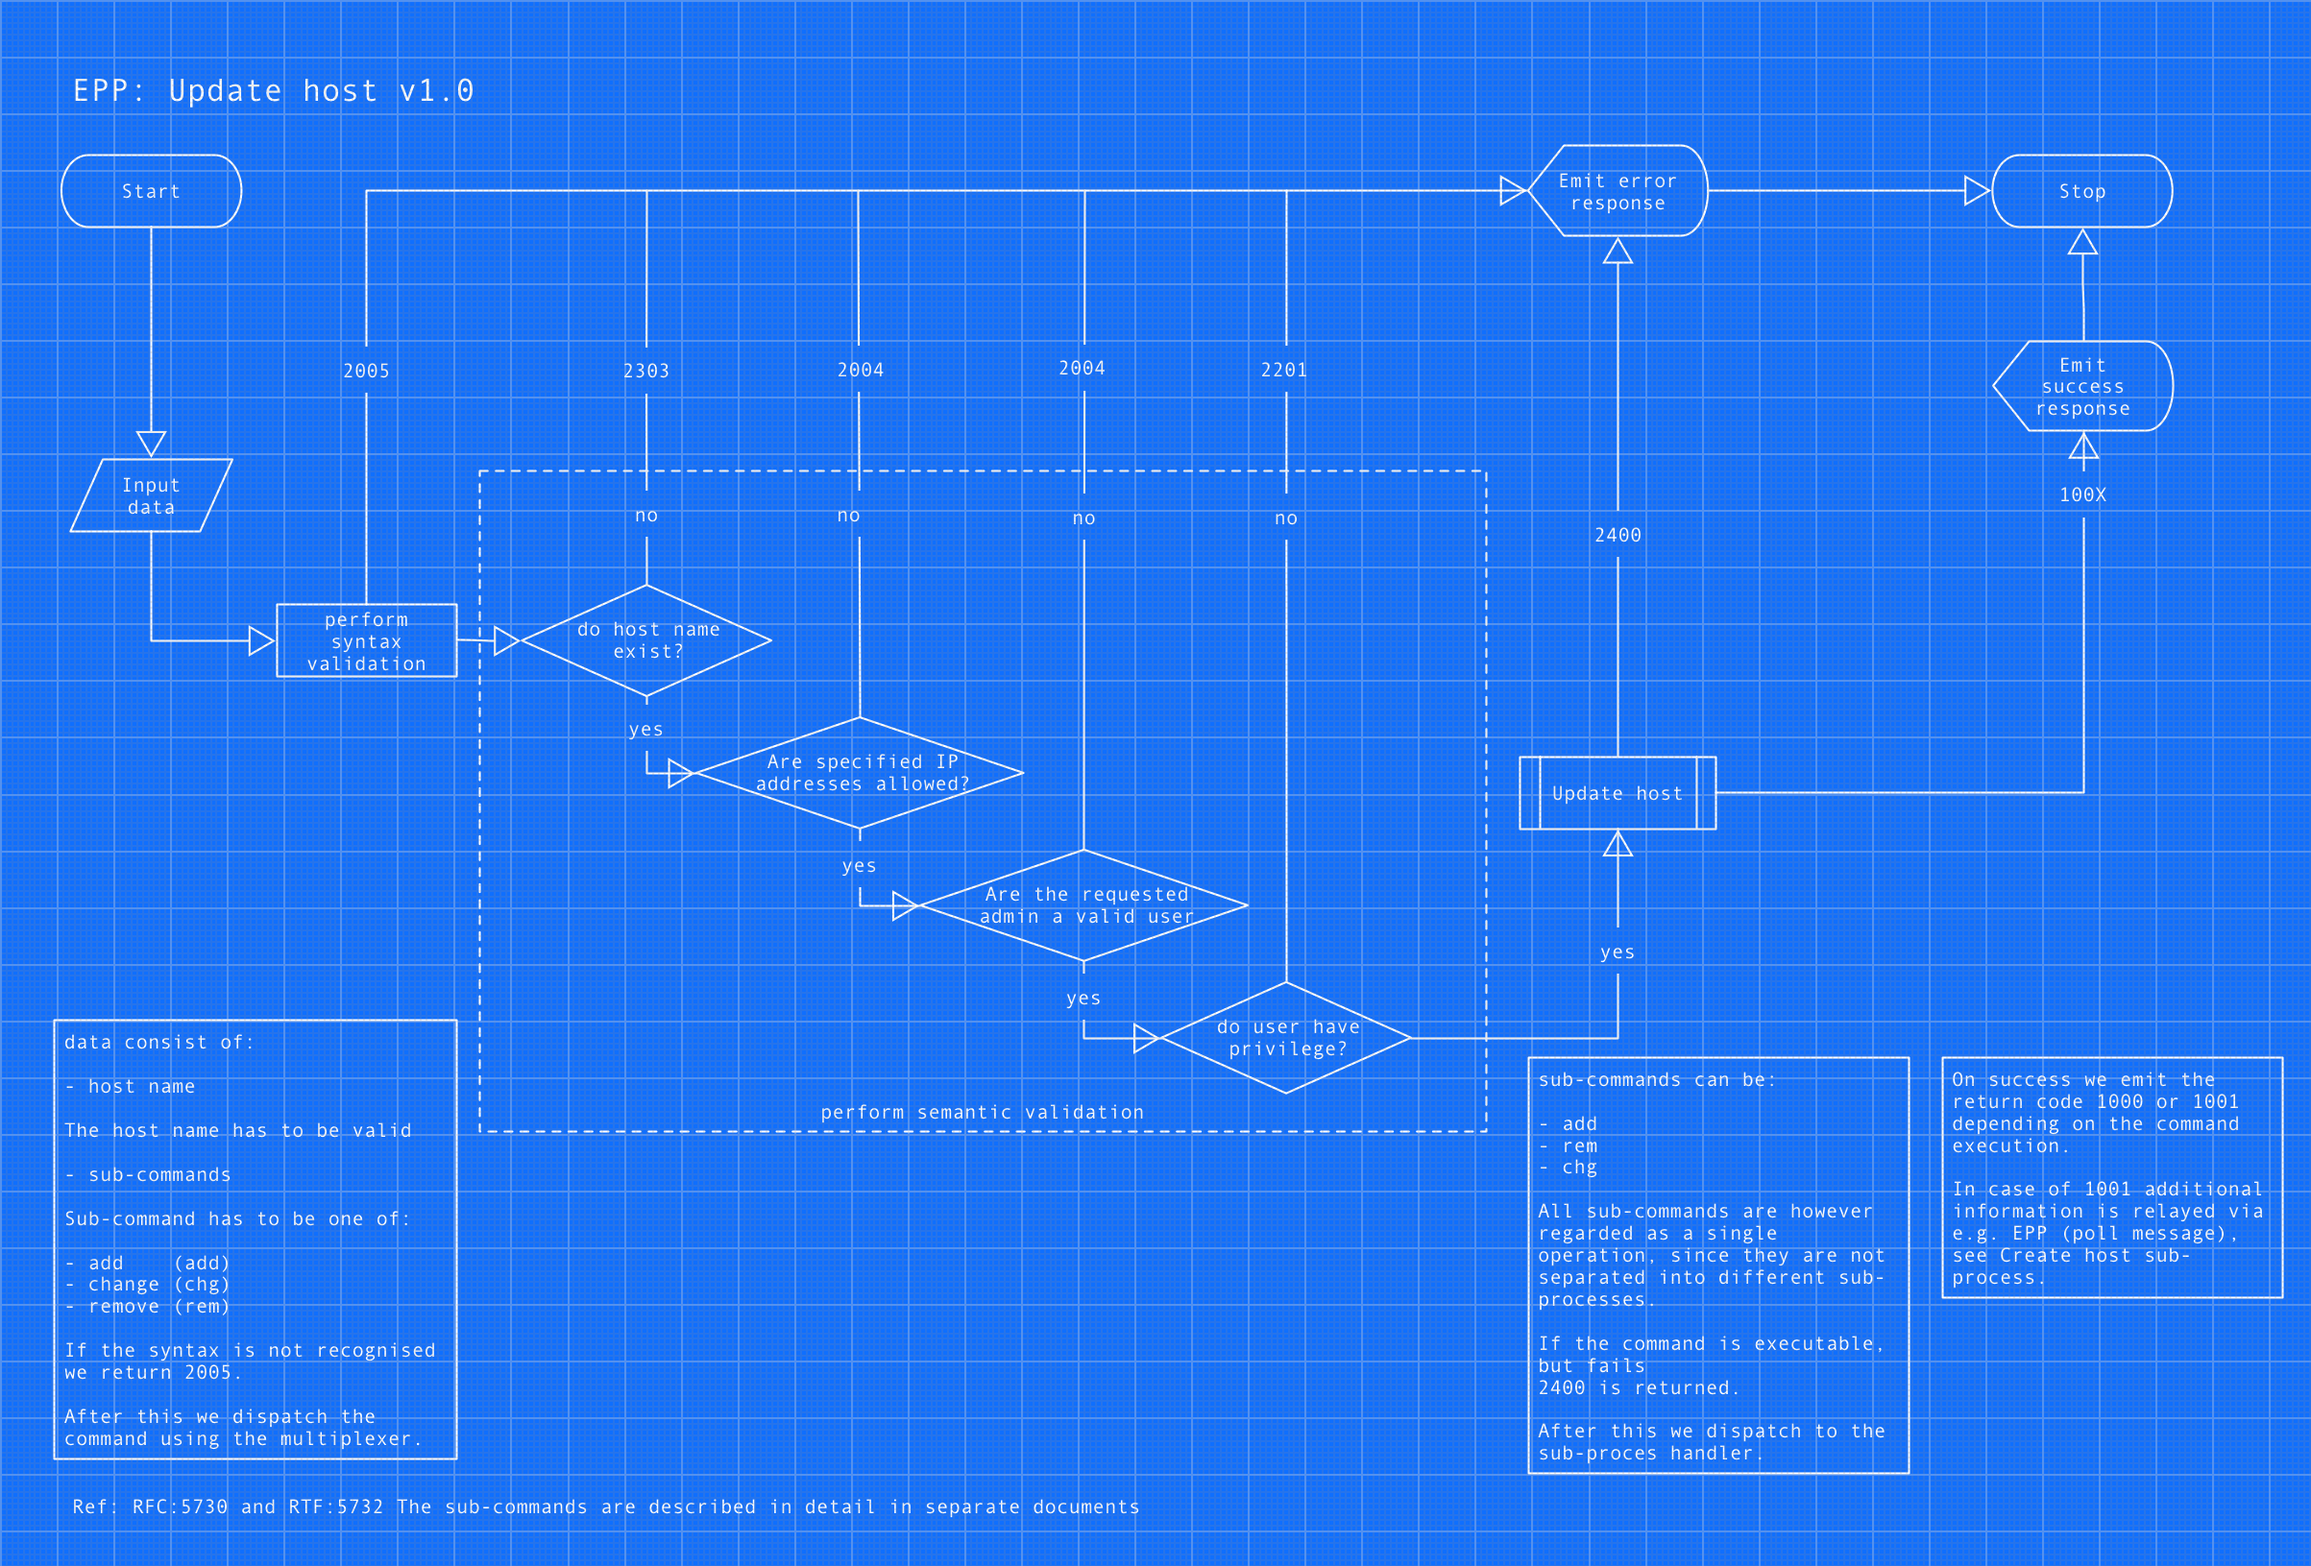
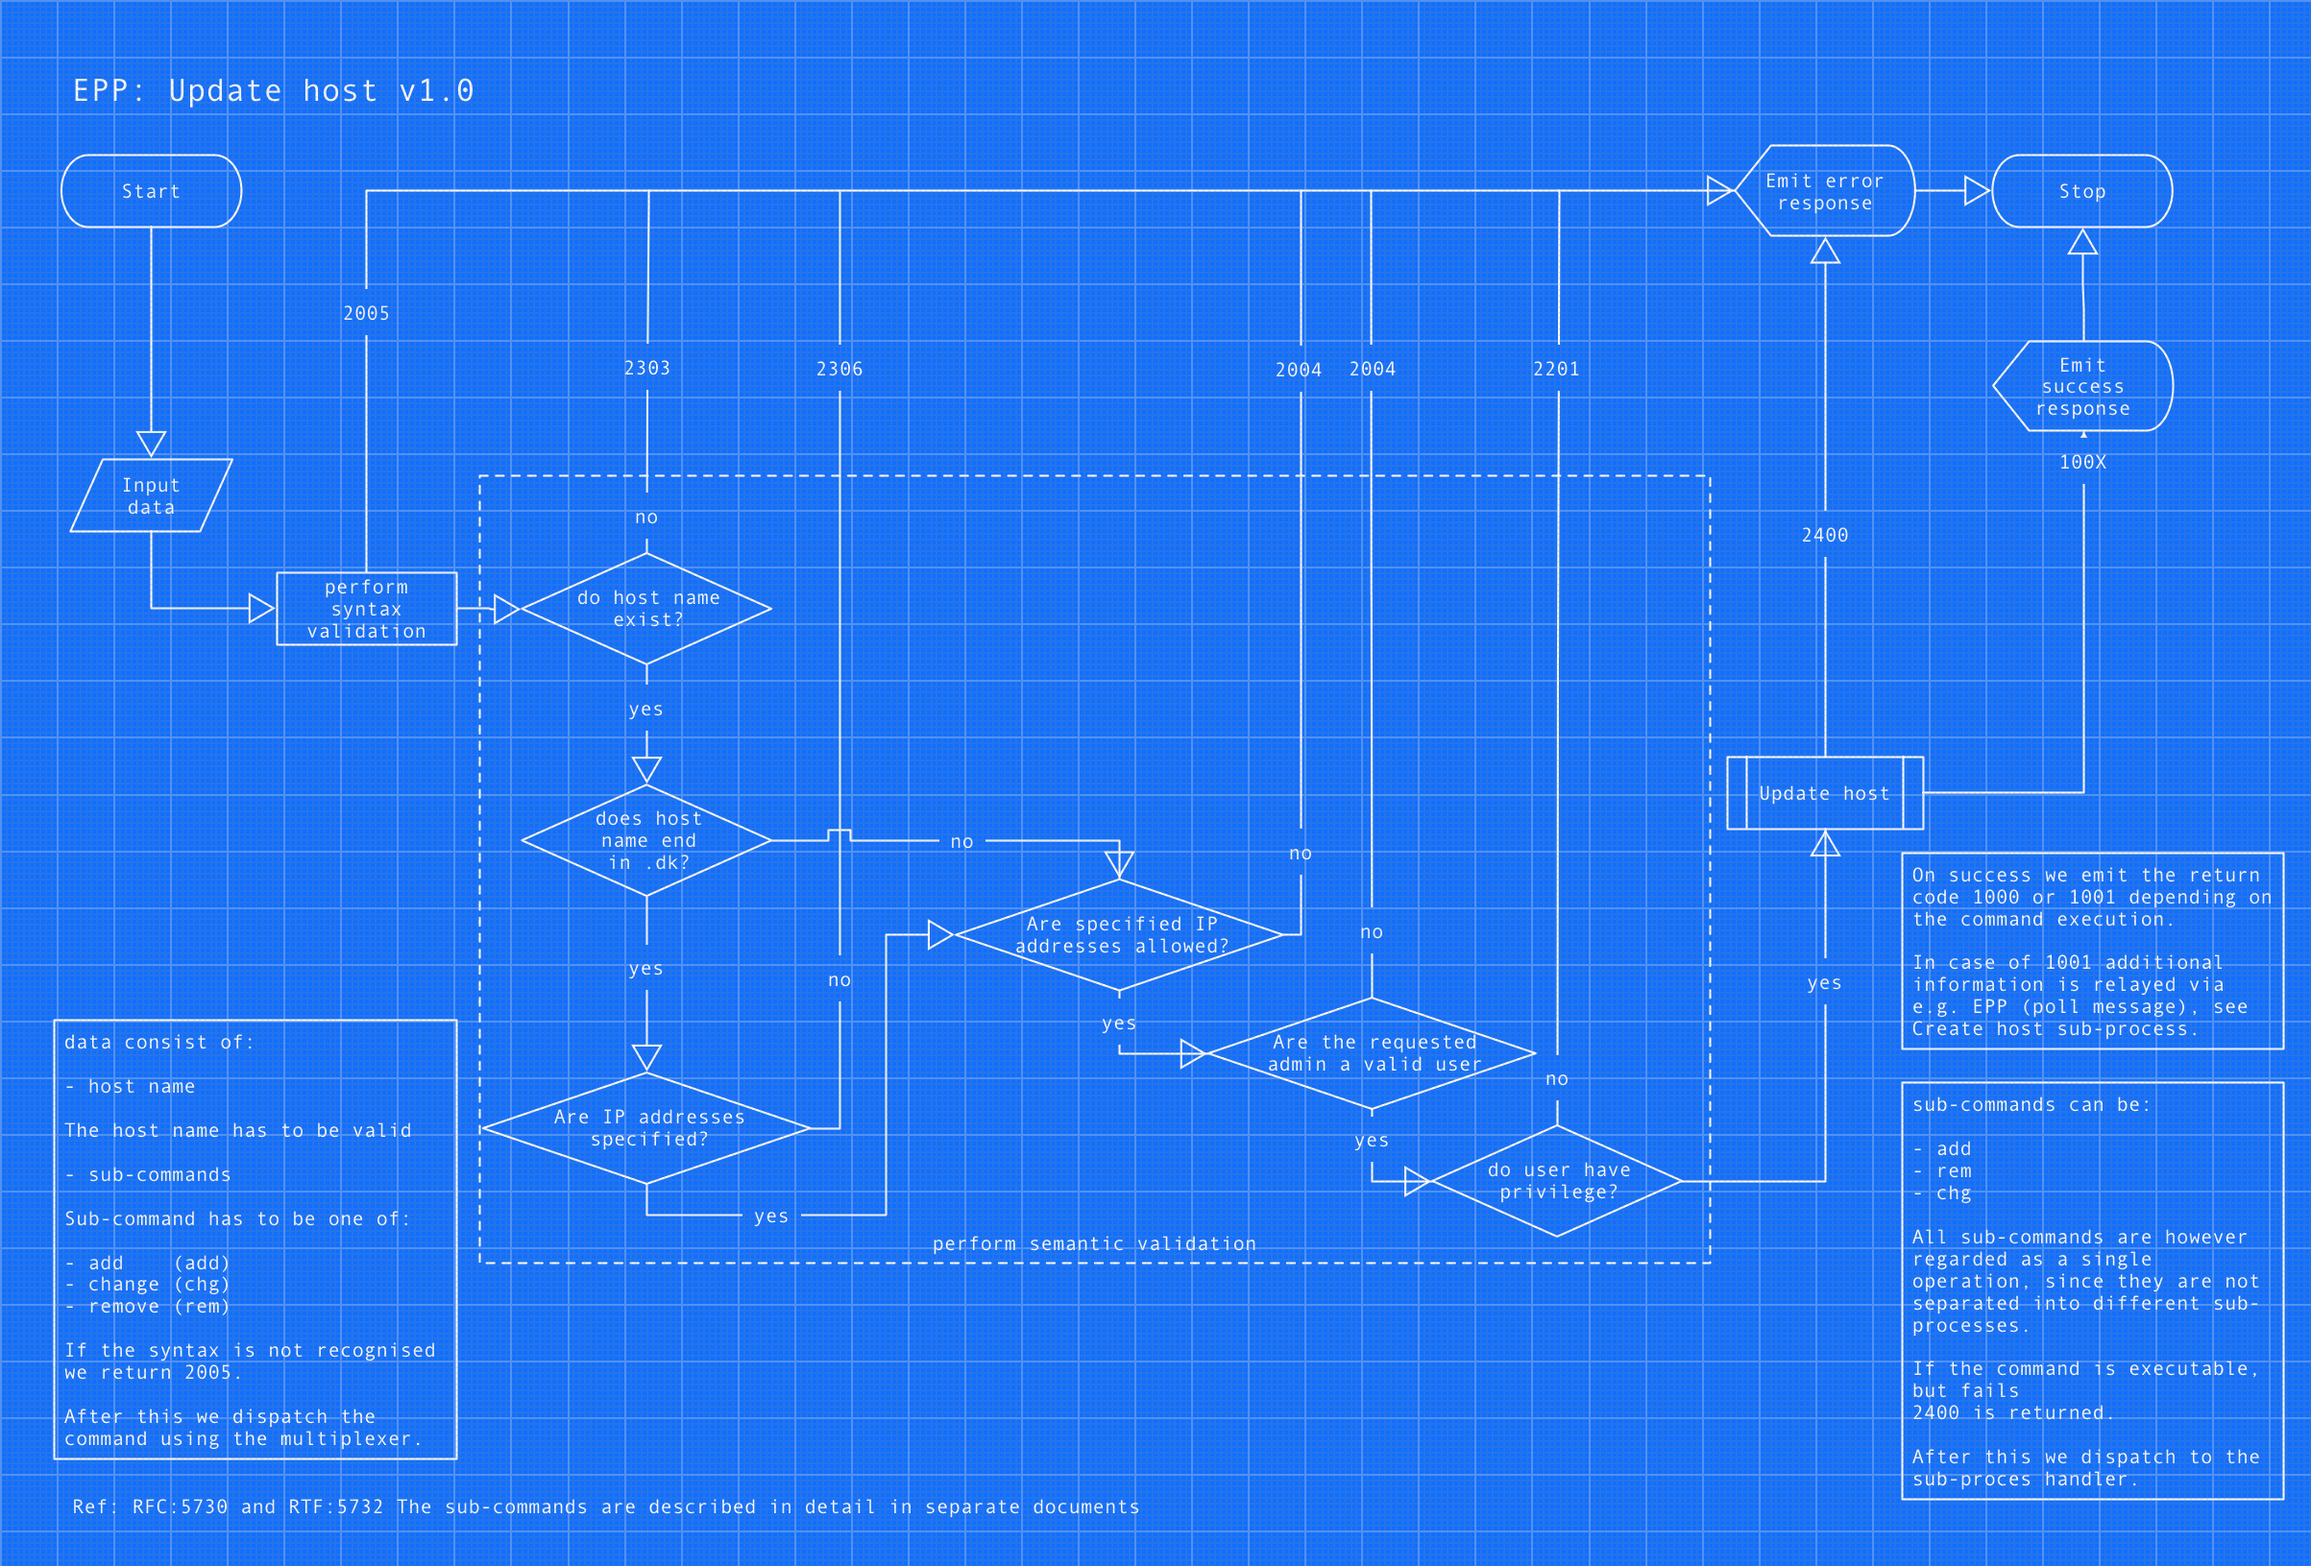
Added semantic check on IP address and error code 2306

diff --git a/TODO.md b/TODO.md
@@ -3,4 +3,4 @@ TODO for epp_nameserver_admin_v1 branch of the DK Hostmaster EPP Service Specifi
 - [X] Add diagrams for commands and processes
 - [X] Add diagrams for DKH sub-processes
 - [ ] Add more information on extensions required
-- [ ] Evaluate possible error situation for create domain / update domain where domain name ends in .dk, but IP address is not specified: 2306?
+- [X] Evaluate possible error situation for create domain / update domain where domain name ends in .dk, but IP address is not specified: 2306?
